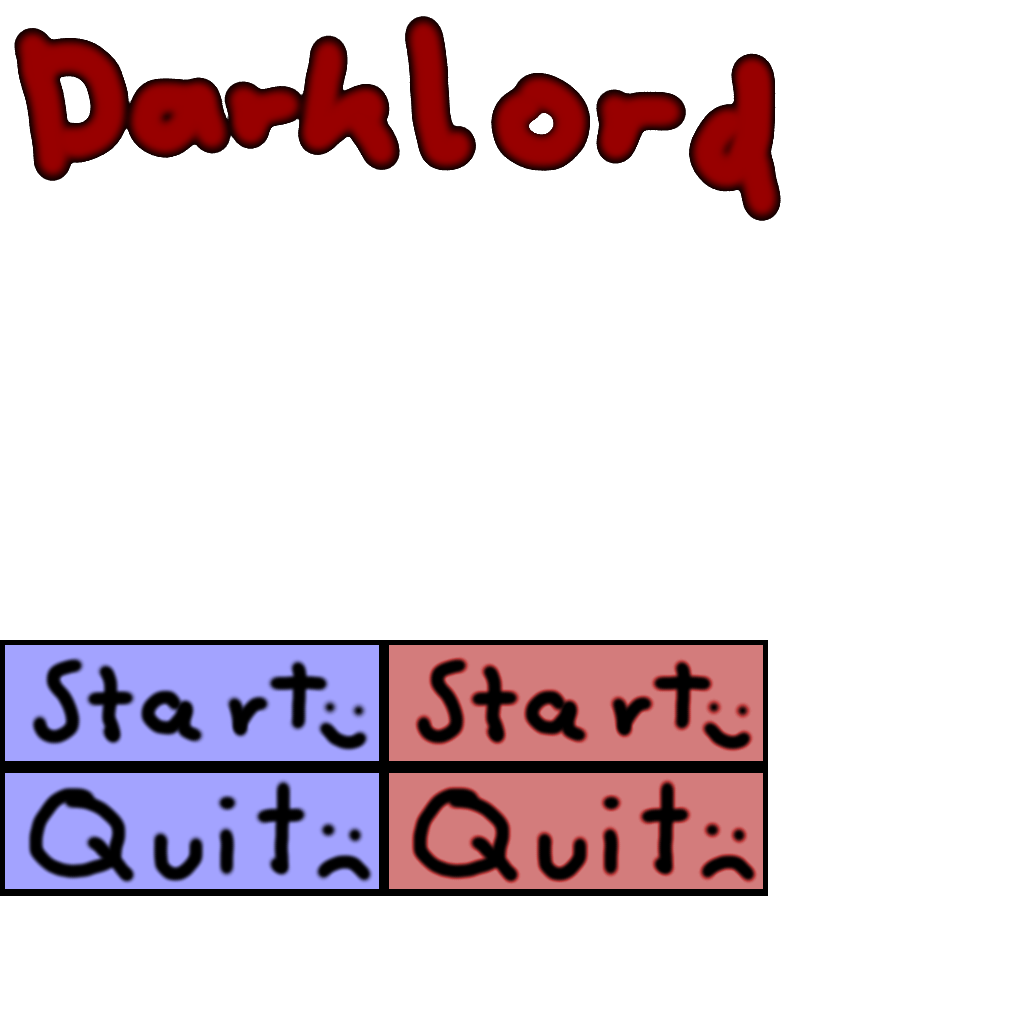
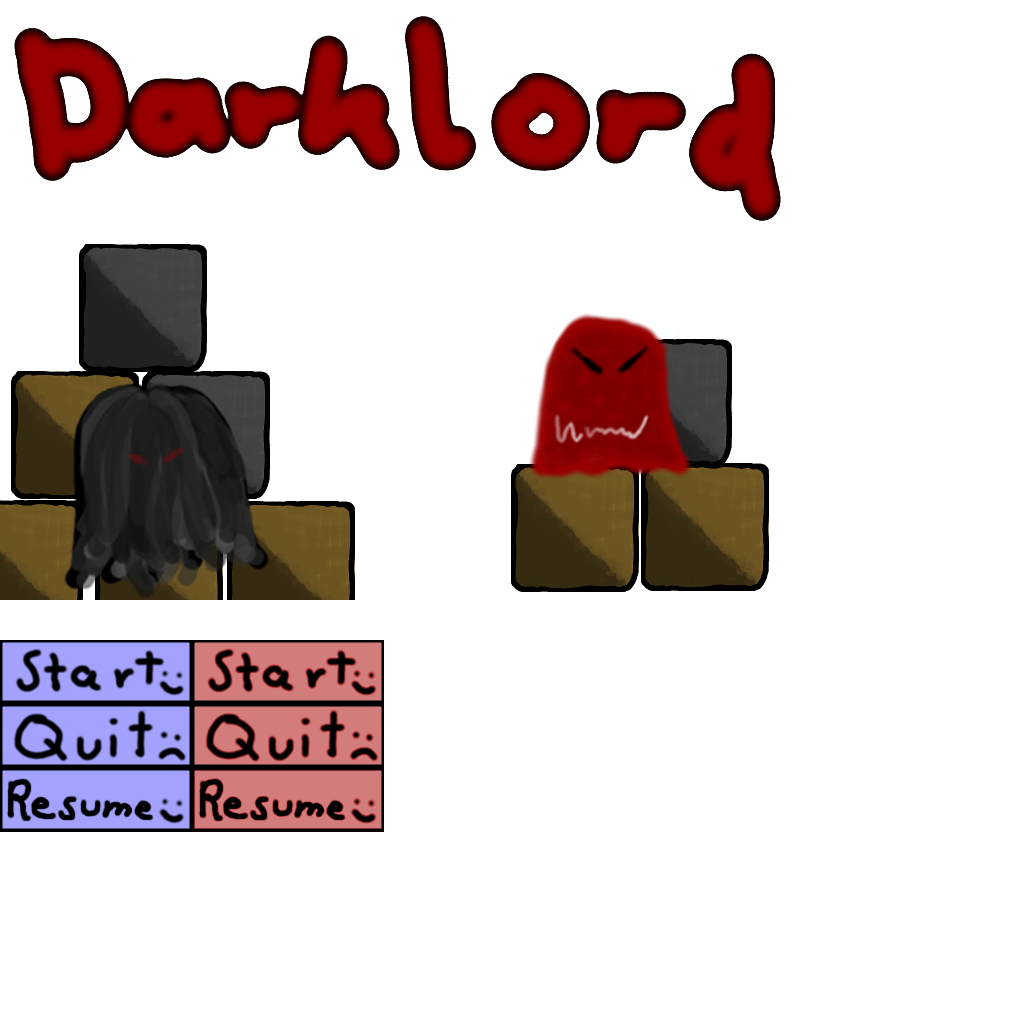
improved menu screen

diff --git a/src/game/Darklords.java b/src/game/Darklords.java
@@ -95,16 +95,16 @@ public class Darklords {
         mainMenu.setSize(new Vector2f(2.f, 2.f));
         
         // add start button
-        Button startButton = new Button(new TextureRegion(0, 640, 384, 128),
-        		new TextureRegion(384, 640, 384, 128),"start");
-        startButton.setSize(new Vector2f(3.0f*0.1f, 0.1f));
+        Button startButton = new Button(new TextureRegion(0*64, 10*64, 3*64, 64),
+        		new TextureRegion(3*64, 10*64, 3*64, 64),"start");
+        startButton.setSize(new Vector2f(3.0f*0.1f, 0.1f*ratio));
         startButton.setPosition(new Vector2f(0.5f, 0.4f).sub(startButton.getSize().mul(0.5f)));
         mainMenu.addButton(startButton);
         
         // add quit button
-        Button quitButton = new Button(new TextureRegion(0, 768, 384, 128), 
-        		new TextureRegion(384, 768, 384, 128), "quit");
-        quitButton.setSize(new Vector2f(3.0f*0.1f, 0.1f));
+        Button quitButton = new Button(new TextureRegion(0*64, 11*64, 3*64, 64), 
+        		new TextureRegion(3*64, 11*64, 3*64, 64), "quit");
+        quitButton.setSize(new Vector2f(3.0f*0.1f, 0.1f*ratio));
         quitButton.setPosition(new Vector2f(0.5f, 0.7f).sub(quitButton.getSize().mul(0.5f)));
         mainMenu.addButton(quitButton);
 	}

diff --git a/src/game/Button.java b/src/game/Button.java
@@ -46,7 +46,7 @@ public class Button
 		if (thePosition.getX()<getPosition().getX()) inside = false;
 		if (thePosition.getY()>getPosition().getY()+getSize().getY()) inside = false;
 		if (thePosition.getY()<getPosition().getY()) inside = false;
-		if (inside) Print.outln("inside of button "+getName());
+//		if (inside) Print.outln("inside of button "+getName());
 		
 		return inside;
 	}

diff --git a/README.md b/README.md
@@ -6,6 +6,7 @@ CONTROLS:
 - W/S/A/D: move
 - LEFT MOUSE BUTTON: attack near block
 - RIGHT MOUSE BUTTON: shoot
+- E: switch shot color
 - ESC: quit
 - LEFT SHIFT + W/S/A/D: teleport
 
